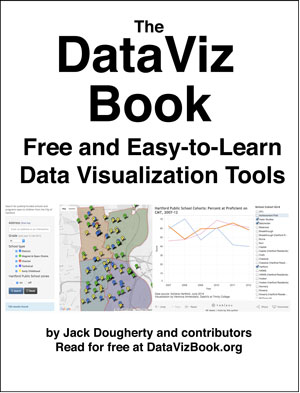
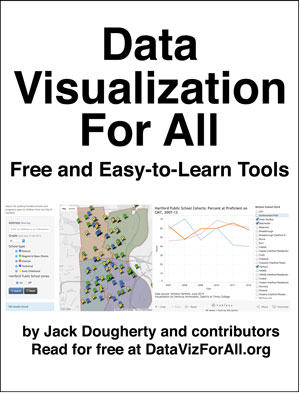
changed title to datavizforall

Changed region(s): [[0.03, 0.0305, 0.96, 0.4885], [0.06, 0.8244, 0.93, 0.916]]

diff --git a/gitbook/workflow.md b/gitbook/workflow.md
@@ -7,7 +7,7 @@
 
 Advantages: WYSIWYG preview, Markdown menu, proofreader toggle, branch control
 
-1. Check GitHub repo for any pull requests from contributors: https://github.com/JackDougherty/datavizbook
+1. Check GitHub repo for any pull requests from contributors: https://github.com/JackDougherty/datavizforall
 2. Startup browser editor, create a new branch (dev) to avoid continually building master branch
 3. Write and save edits on each page
 4. When done, merge branches (push dev branch into master branch)
@@ -19,7 +19,7 @@ Advantages: WYSIWYG preview, Markdown menu, proofreader toggle, branch and sync 
 
 Mixed opinion: links and images appear, but requires clicking on Markdown version to edit
 
-1. Check GitHub repo for any pull requests from contributors: https://github.com/JackDougherty/datavizbook
+1. Check GitHub repo for any pull requests from contributors: https://github.com/JackDougherty/datavizforall
 2. Startup Desktop Editor app and CLONE current book from GitHub to local computer
 3. Create a new branch (dev)
 4. Write and save edits on each page
@@ -30,7 +30,7 @@ Mixed opinion: links and images appear, but requires clicking on Markdown versio
 
 ## Structural changes with GitHub Desktop and Atom Editor
 When making major changes to the book, especially folder/file structure, copy a branch to a local computer with GitHub Desktop, and modify with Atom Editor (or your preferred text editor).
-1. Check GitHub repo for any pull requests from contributors: https://github.com/JackDougherty/datavizbook
+1. Check GitHub repo for any pull requests from contributors: https://github.com/JackDougherty/datavizbookforall
 2. Create dev branch for current edits
 3. Use GitHub Desktop to sync repo to my local computer, where dev branch is default view
 4. Use Atom editor to edit/upload/restructure files
@@ -44,11 +44,10 @@ When making major changes to the book, especially folder/file structure, copy a 
 
 
 
+[Improve this book:](../gitbook/improve.md) Select text to insert comments, or suggest edits on GitHub.
 
-[Improve this book:](improve.md) Select text to insert comments, or suggest edits on GitHub.
-
-[The DataViz Book](http://datavizbook.org)
+[Data Visualization for All](http://datavizforall.org)
 is copyrighted by [Jack Dougherty and contributors](../introduction/who.md)
-and distributed under a [Creative Commons Attribution-NonCommercial 4.0 International License](http://creativecommons.org/licenses/by-nc/4.0). You may freely share and modify this content for non-commercial purposes, with a source credit to http://DataVizBook.org.
+and distributed under a [Creative Commons Attribution-NonCommercial 4.0 International License](http://creativecommons.org/licenses/by-nc/4.0). You may freely share and modify this content for non-commercial purposes, with a source credit to http://DataVizForAll.org.
 
 ![Creative Commons by-nc image](../cc-by-nc.png)

diff --git a/README.md b/README.md
@@ -2,11 +2,11 @@
 
 ### Tell your story ***and*** show it with data.
 
-***The DataViz Book*** illustrates how to create interactive charts and maps with easy-to-learn free tools and open data sources. This introductory textbook includes step-by-step tutorials and vivid examples to design and embed data visualizations in your own website. No coding skills required. Featured tools include Tableau Public, Google Fusion Tables, and GitHub Pages in the browser. Read or download this open-access book-in-progress at http://DataVizBook.org.
+***Data Visualization for All*** illustrates how to create interactive charts and maps with easy-to-learn free tools and open data sources. This introductory textbook includes step-by-step tutorials and vivid examples to design and embed data visualizations in your own website. No coding skills required. Featured tools include Tableau Public, Google Fusion Tables, and GitHub Pages in the browser. Read or download this open-access book-in-progress at http://DataVizForAll.org.
 
 [About the authors:](introduction/who.md) Jack Dougherty (Trinity College, CT) with contributors Veronica X. Armendariz, Derek Eder, and others.
 
-[Freely read online](https://www.gitbook.com/read/book/jackdougherty/datavizbook) (recommended) or download the [PDF](https://www.gitbook.com/download/pdf/book/jackdougherty/datavizbook) or [ePUB](https://www.gitbook.com/download/epub/book/jackdougherty/datavizbook) or [Mobi/Kindle](https://www.gitbook.com/download/mobi/book/jackdougherty/datavizbook) editions.
+[Freely read online](https://www.gitbook.com/read/book/jackdougherty/datavizforall) (recommended) or download the [PDF](https://www.gitbook.com/download/pdf/book/jackdougherty/datavizforall) or [ePUB](https://www.gitbook.com/download/epub/book/jackdougherty/datavizforall) or [Mobi/Kindle](https://www.gitbook.com/download/mobi/book/jackdougherty/datavizforall) editions.
 
 [Improve this book-in-progress](gitbook/improve.md) by adding comments.
 
@@ -20,9 +20,9 @@
 
 ***
 
-[The DataViz Book](http://datavizbook.org)
+[Data Visualization for All](http://datavizforall.org)
 is copyrighted by [Jack Dougherty and contributors](introduction/who.md)
 and distributed under a [Creative Commons Attribution-NonCommercial 4.0 International License](http://creativecommons.org/licenses/by-nc/4.0).
-You may freely share and modify this content for non-commercial purposes, with a source credit to http://DataVizBook.org.
+You may freely share and modify this content for non-commercial purposes, with a source credit to http://DataVizForAll.org.
 
 ![Creative Commons CC-BY image](cc-by-nc.png)

diff --git a/gitbook/improve.md b/gitbook/improve.md
@@ -21,7 +21,7 @@
 
 ##Submit additional chapters to the book
 - Recommended: [Contact the lead author](../introduction/who.md) with a summary of your proposed chapter.
-- On the [book GitHub repository](https://github.com/JackDougherty/datavizbook), fork a copy to your own GitHub account (requires free signup).
+- On the [book GitHub repository](https://github.com/JackDougherty/datavizforall), fork a copy to your own GitHub account (requires free signup).
 - Create your proposed chapter following the book's existing folder/file structure, in GitHub/GitBook Markdown format, as explained in the following pages.
 
 
@@ -29,8 +29,8 @@
 ---
 
 
-[The DataViz Book](http://datavizbook.org)
+[Data Visualization for All](http://datavizforall.org)
 is copyrighted by [Jack Dougherty and contributors](../introduction/who.md)
-and distributed under a [Creative Commons Attribution-NonCommercial 4.0 International License](http://creativecommons.org/licenses/by-nc/4.0). You may freely share and modify this content for non-commercial purposes, with a source credit to http://DataVizBook.org.
+and distributed under a [Creative Commons Attribution-NonCommercial 4.0 International License](http://creativecommons.org/licenses/by-nc/4.0). You may freely share and modify this content for non-commercial purposes, with a source credit to http://DataVizForAll.org.
 
 ![Creative Commons by-nc image](../cc-by-nc.png)

diff --git a/introduction/how.md b/introduction/how.md
@@ -53,11 +53,10 @@ Those are the ideals. The tools featured in this book fit *most* but not necessa
 ---
 
 
-
 [Improve this book:](../gitbook/improve.md) Select text to insert comments, or suggest edits on GitHub.
 
-[The DataViz Book](http://datavizbook.org)
-is copyrighted by [Jack Dougherty and contributors](who.md)
-and distributed under a [Creative Commons Attribution-NonCommercial 4.0 International License](http://creativecommons.org/licenses/by-nc/4.0). You may freely share and modify this content for non-commercial purposes, with a source credit to http://DataVizBook.org.
+[Data Visualization for All](http://datavizforall.org)
+is copyrighted by [Jack Dougherty and contributors](../introduction/who.md)
+and distributed under a [Creative Commons Attribution-NonCommercial 4.0 International License](http://creativecommons.org/licenses/by-nc/4.0). You may freely share and modify this content for non-commercial purposes, with a source credit to http://DataVizForAll.org.
 
 ![Creative Commons by-nc image](../cc-by-nc.png)

diff --git a/gitbook/structure.md b/gitbook/structure.md
@@ -76,10 +76,10 @@ Example:
 
 
 
-[Improve this book:](improve.md) Select text to insert comments, or suggest edits on GitHub.
+[Improve this book:](../gitbook/improve.md) Select text to insert comments, or suggest edits on GitHub.
 
-[The DataViz Book](http://datavizbook.org)
+[Data Visualization for All](http://datavizforall.org)
 is copyrighted by [Jack Dougherty and contributors](../introduction/who.md)
-and distributed under a [Creative Commons Attribution-NonCommercial 4.0 International License](http://creativecommons.org/licenses/by-nc/4.0). You may freely share and modify this content for non-commercial purposes, with a source credit to http://DataVizBook.org.
+and distributed under a [Creative Commons Attribution-NonCommercial 4.0 International License](http://creativecommons.org/licenses/by-nc/4.0). You may freely share and modify this content for non-commercial purposes, with a source credit to http://DataVizForAll.org.
 
 ![Creative Commons by-nc image](../cc-by-nc.png)

diff --git a/embed/iframe-gft/README.md b/embed/iframe-gft/README.md
@@ -16,11 +16,10 @@ Then paste your Google Fusion Tables embed iframe code into a WordPress.org po
 ---
 
 
-
 [Improve this book:](../../gitbook/improve.md) Select text to insert comments, or suggest edits on GitHub.
 
-[The DataViz Book](http://datavizbook.org)
+[Data Visualization for All](http://datavizforall.org)
 is copyrighted by [Jack Dougherty and contributors](../../introduction/who.md)
-and distributed under a [Creative Commons Attribution-NonCommercial 4.0 International License](http://creativecommons.org/licenses/by-nc/4.0). You may freely share and modify this content for non-commercial purposes, with a source credit to http://DataVizBook.org.
+and distributed under a [Creative Commons Attribution-NonCommercial 4.0 International License](http://creativecommons.org/licenses/by-nc/4.0). You may freely share and modify this content for non-commercial purposes, with a source credit to http://DataVizForAll.org.
 
 ![Creative Commons by-nc image](../../cc-by-nc.png)

diff --git a/embed/tableau/README.md b/embed/tableau/README.md
@@ -44,11 +44,10 @@ To learn more about embedding Tableau Public visualizations with iframe, see: ht
 ---
 
 
-
 [Improve this book:](../../gitbook/improve.md) Select text to insert comments, or suggest edits on GitHub.
 
-[The DataViz Book](http://datavizbook.org)
+[Data Visualization for All](http://datavizforall.org)
 is copyrighted by [Jack Dougherty and contributors](../../introduction/who.md)
-and distributed under a [Creative Commons Attribution-NonCommercial 4.0 International License](http://creativecommons.org/licenses/by-nc/4.0). You may freely share and modify this content for non-commercial purposes, with a source credit to http://DataVizBook.org.
+and distributed under a [Creative Commons Attribution-NonCommercial 4.0 International License](http://creativecommons.org/licenses/by-nc/4.0). You may freely share and modify this content for non-commercial purposes, with a source credit to http://DataVizForAll.org.
 
 ![Creative Commons by-nc image](../../cc-by-nc.png)

diff --git a/map/gft-layer-wizard/README.md b/map/gft-layer-wizard/README.md
@@ -23,11 +23,10 @@ Copy and paste the automated HTML code into a web page to display your interacti
 ---
 
 
-
 [Improve this book:](../../gitbook/improve.md) Select text to insert comments, or suggest edits on GitHub.
 
-[The DataViz Book](http://datavizbook.org)
+[Data Visualization for All](http://datavizforall.org)
 is copyrighted by [Jack Dougherty and contributors](../../introduction/who.md)
-and distributed under a [Creative Commons Attribution-NonCommercial 4.0 International License](http://creativecommons.org/licenses/by-nc/4.0). You may freely share and modify this content for non-commercial purposes, with a source credit to http://DataVizBook.org.
+and distributed under a [Creative Commons Attribution-NonCommercial 4.0 International License](http://creativecommons.org/licenses/by-nc/4.0). You may freely share and modify this content for non-commercial purposes, with a source credit to http://DataVizForAll.org.
 
 ![Creative Commons by-nc image](../../cc-by-nc.png)

diff --git a/embed/iframe-wordpress/README.md b/embed/iframe-wordpress/README.md
@@ -23,11 +23,10 @@ But details vary, so read and experiment with the examples that follow.
 ---
 
 
-
 [Improve this book:](../../gitbook/improve.md) Select text to insert comments, or suggest edits on GitHub.
 
-[The DataViz Book](http://datavizbook.org)
+[Data Visualization for All](http://datavizforall.org)
 is copyrighted by [Jack Dougherty and contributors](../../introduction/who.md)
-and distributed under a [Creative Commons Attribution-NonCommercial 4.0 International License](http://creativecommons.org/licenses/by-nc/4.0). You may freely share and modify this content for non-commercial purposes, with a source credit to http://DataVizBook.org.
+and distributed under a [Creative Commons Attribution-NonCommercial 4.0 International License](http://creativecommons.org/licenses/by-nc/4.0). You may freely share and modify this content for non-commercial purposes, with a source credit to http://DataVizForAll.org.
 
 ![Creative Commons by-nc image](../../cc-by-nc.png)

diff --git a/map/point-gft/README.md b/map/point-gft/README.md
@@ -109,8 +109,8 @@ TO DO: To display textual data, rather than numerical, in a GFT legend, see this
 
 [Improve this book:](../../gitbook/improve.md) Select text to insert comments, or suggest edits on GitHub.
 
-[The DataViz Book](http://datavizbook.org)
+[Data Visualization for All](http://datavizforall.org)
 is copyrighted by [Jack Dougherty and contributors](../../introduction/who.md)
-and distributed under a [Creative Commons Attribution-NonCommercial 4.0 International License](http://creativecommons.org/licenses/by-nc/4.0). You may freely share and modify this content for non-commercial purposes, with a source credit to http://DataVizBook.org.
+and distributed under a [Creative Commons Attribution-NonCommercial 4.0 International License](http://creativecommons.org/licenses/by-nc/4.0). You may freely share and modify this content for non-commercial purposes, with a source credit to http://DataVizForAll.org.
 
 ![Creative Commons by-nc image](../../cc-by-nc.png)

diff --git a/modify/github/README.md b/modify/github/README.md
@@ -108,8 +108,8 @@ See my sample repositories, with links to live demo sites, at https://github.com
 
 [Improve this book:](../../gitbook/improve.md) Select text to insert comments, or suggest edits on GitHub.
 
-[The DataViz Book](http://datavizbook.org)
+[Data Visualization for All](http://datavizforall.org)
 is copyrighted by [Jack Dougherty and contributors](../../introduction/who.md)
-and distributed under a [Creative Commons Attribution-NonCommercial 4.0 International License](http://creativecommons.org/licenses/by-nc/4.0). You may freely share and modify this content for non-commercial purposes, with a source credit to http://DataVizBook.org.
+and distributed under a [Creative Commons Attribution-NonCommercial 4.0 International License](http://creativecommons.org/licenses/by-nc/4.0). You may freely share and modify this content for non-commercial purposes, with a source credit to http://DataVizForAll.org.
 
 ![Creative Commons by-nc image](../../cc-by-nc.png)

diff --git a/chart/filtered-line-chart-tableau/README.md b/chart/filtered-line-chart-tableau/README.md
@@ -92,8 +92,8 @@ For more details, see the Host HTML code on the web with GitHub Pages tutorial i
 
 [Improve this book:](../../gitbook/improve.md) Select text to insert comments, or suggest edits on GitHub.
 
-[The DataViz Book](http://datavizbook.org)
+[Data Visualization for All](http://datavizforall.org)
 is copyrighted by [Jack Dougherty and contributors](../../introduction/who.md)
-and distributed under a [Creative Commons Attribution-NonCommercial 4.0 International License](http://creativecommons.org/licenses/by-nc/4.0). You may freely share and modify this content for non-commercial purposes, with a source credit to http://DataVizBook.org.
+and distributed under a [Creative Commons Attribution-NonCommercial 4.0 International License](http://creativecommons.org/licenses/by-nc/4.0). You may freely share and modify this content for non-commercial purposes, with a source credit to http://DataVizForAll.org.
 
 ![Creative Commons by-nc image](../../cc-by-nc.png)
